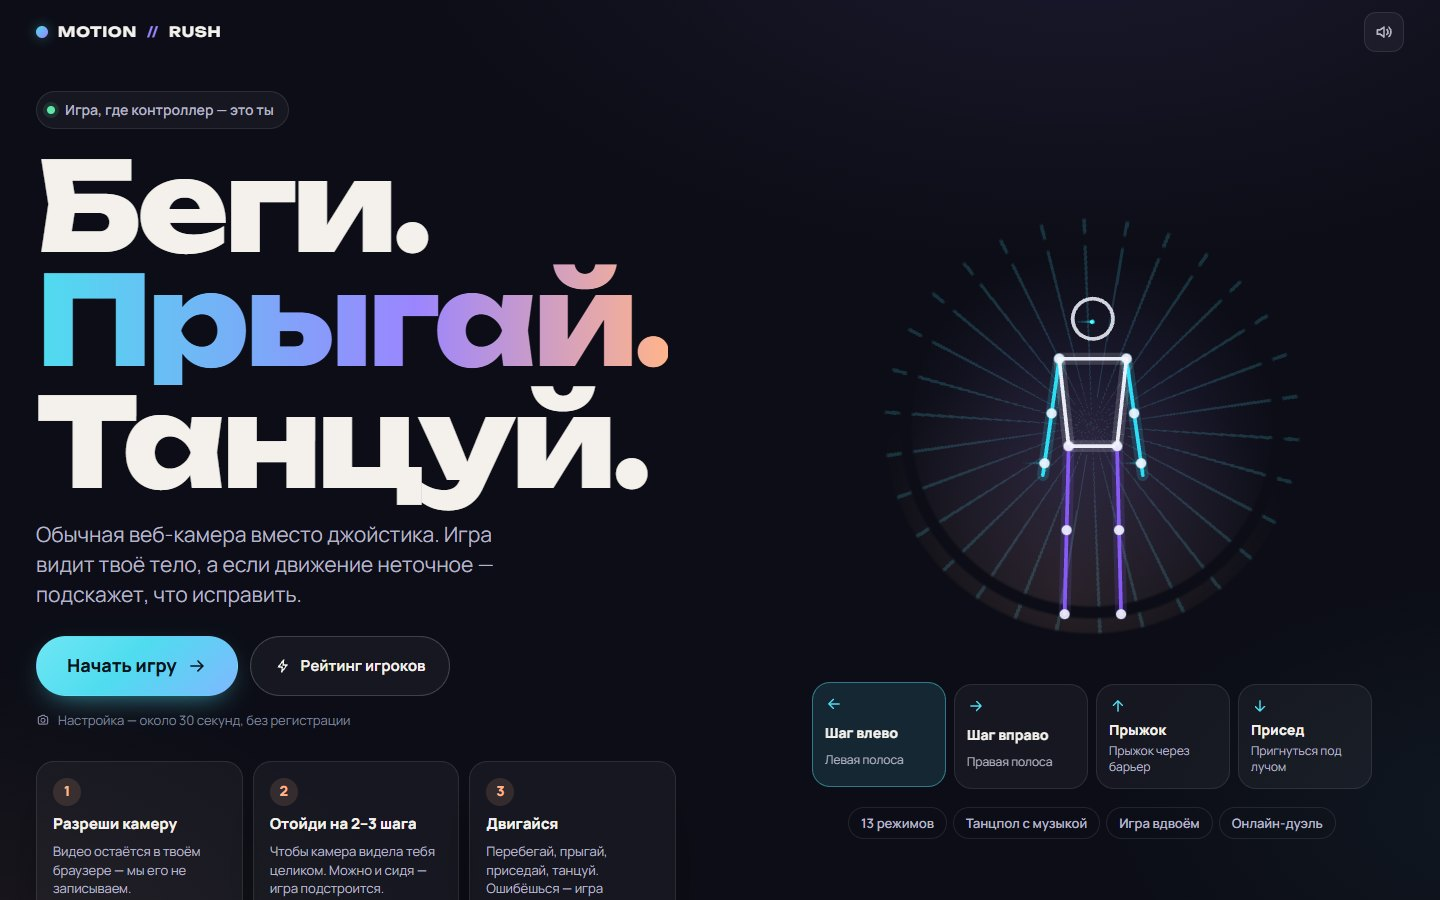
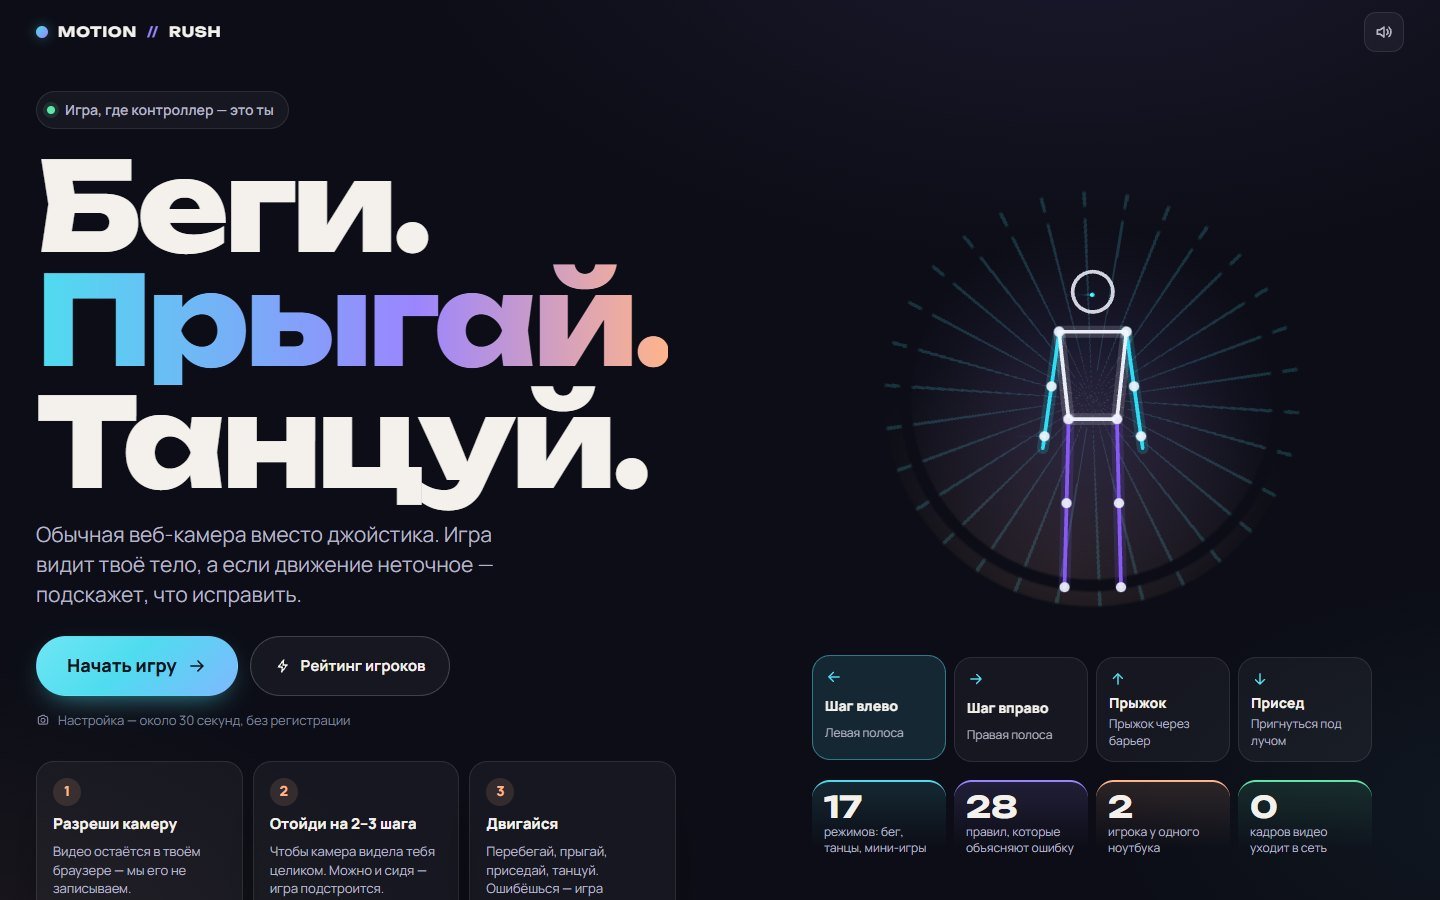
README: fresh screenshots — 17 modes, X-ray, Star Catch, Freeze!
Landing and mode picker showed the old "13 modes"; all solo shots are
retaken from the current build. The camera video stays hidden.

diff --git a/README.md b/README.md
@@ -37,6 +37,10 @@ Admit Hackathon 2026 · кейс «Motion — камера вместо джой
 | ![Dance](docs/screenshots/dance.jpg) | ![Dance battle](docs/screenshots/dance-battle.jpg) |
 | **Игра вдвоём: у каждого своя зона, игра подсказывает, куда сдвинуться** | **Versus 2P: у каждого своя трасса, полосу меняет наклон** |
 | ![Versus setup](docs/screenshots/versus-setup.jpg) | ![Versus](docs/screenshots/versus.jpg) |
+| **Star Catch: лови звёзды руками; «Почти!» — подсказка, если рука не дотянулась** | **Freeze!: на красный — замри; камера видит даже взмах руки** |
+| ![Star Catch](docs/screenshots/star-catch.jpg) | ![Freeze](docs/screenshots/freeze.jpg) |
+
+![«Рентген»: скорость распознавания, значения против порогов и сработавшее правило](docs/screenshots/xray.jpg)
 
 ![Результаты, посчитанные из реального забега](docs/screenshots/results.jpg)
 > На скриншотах видеослой камеры скрыт: остались только скелет, «призрак» целевой позы и линии-цели, которые рисует система.
